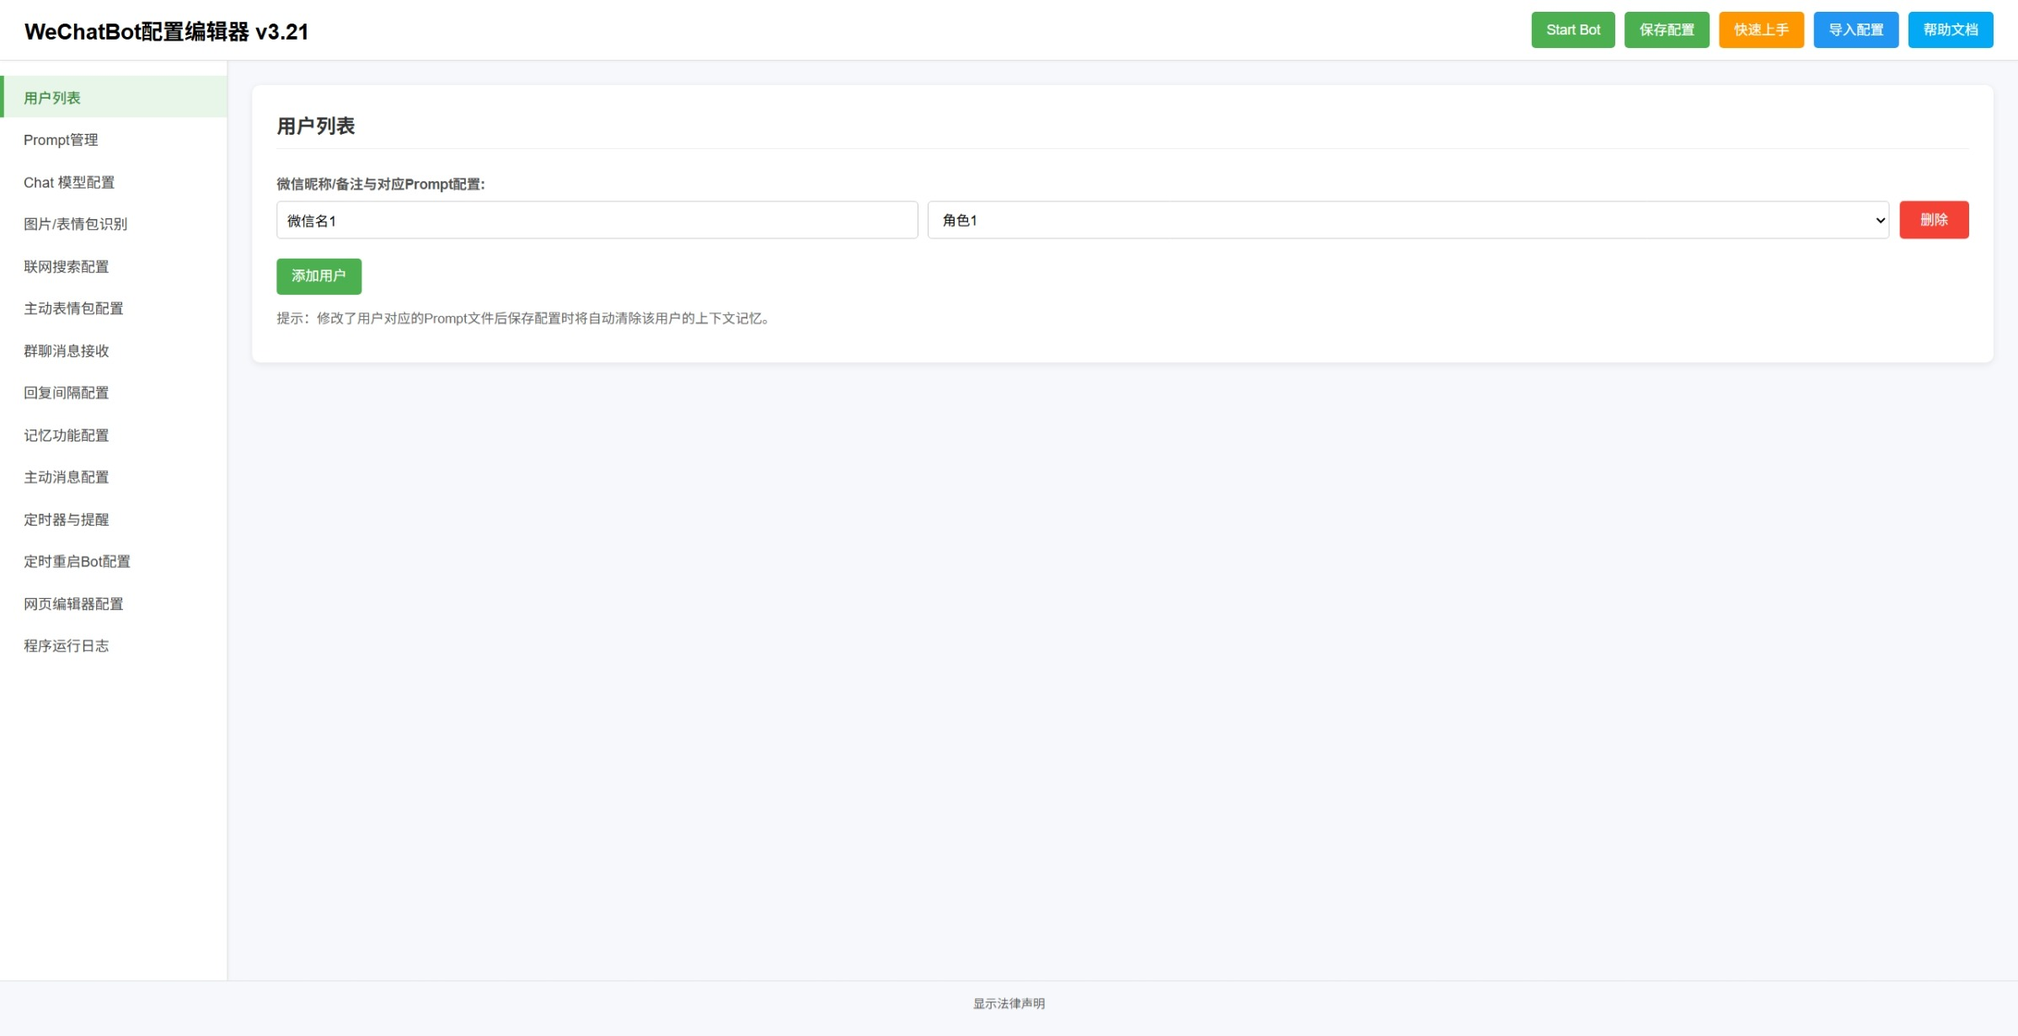
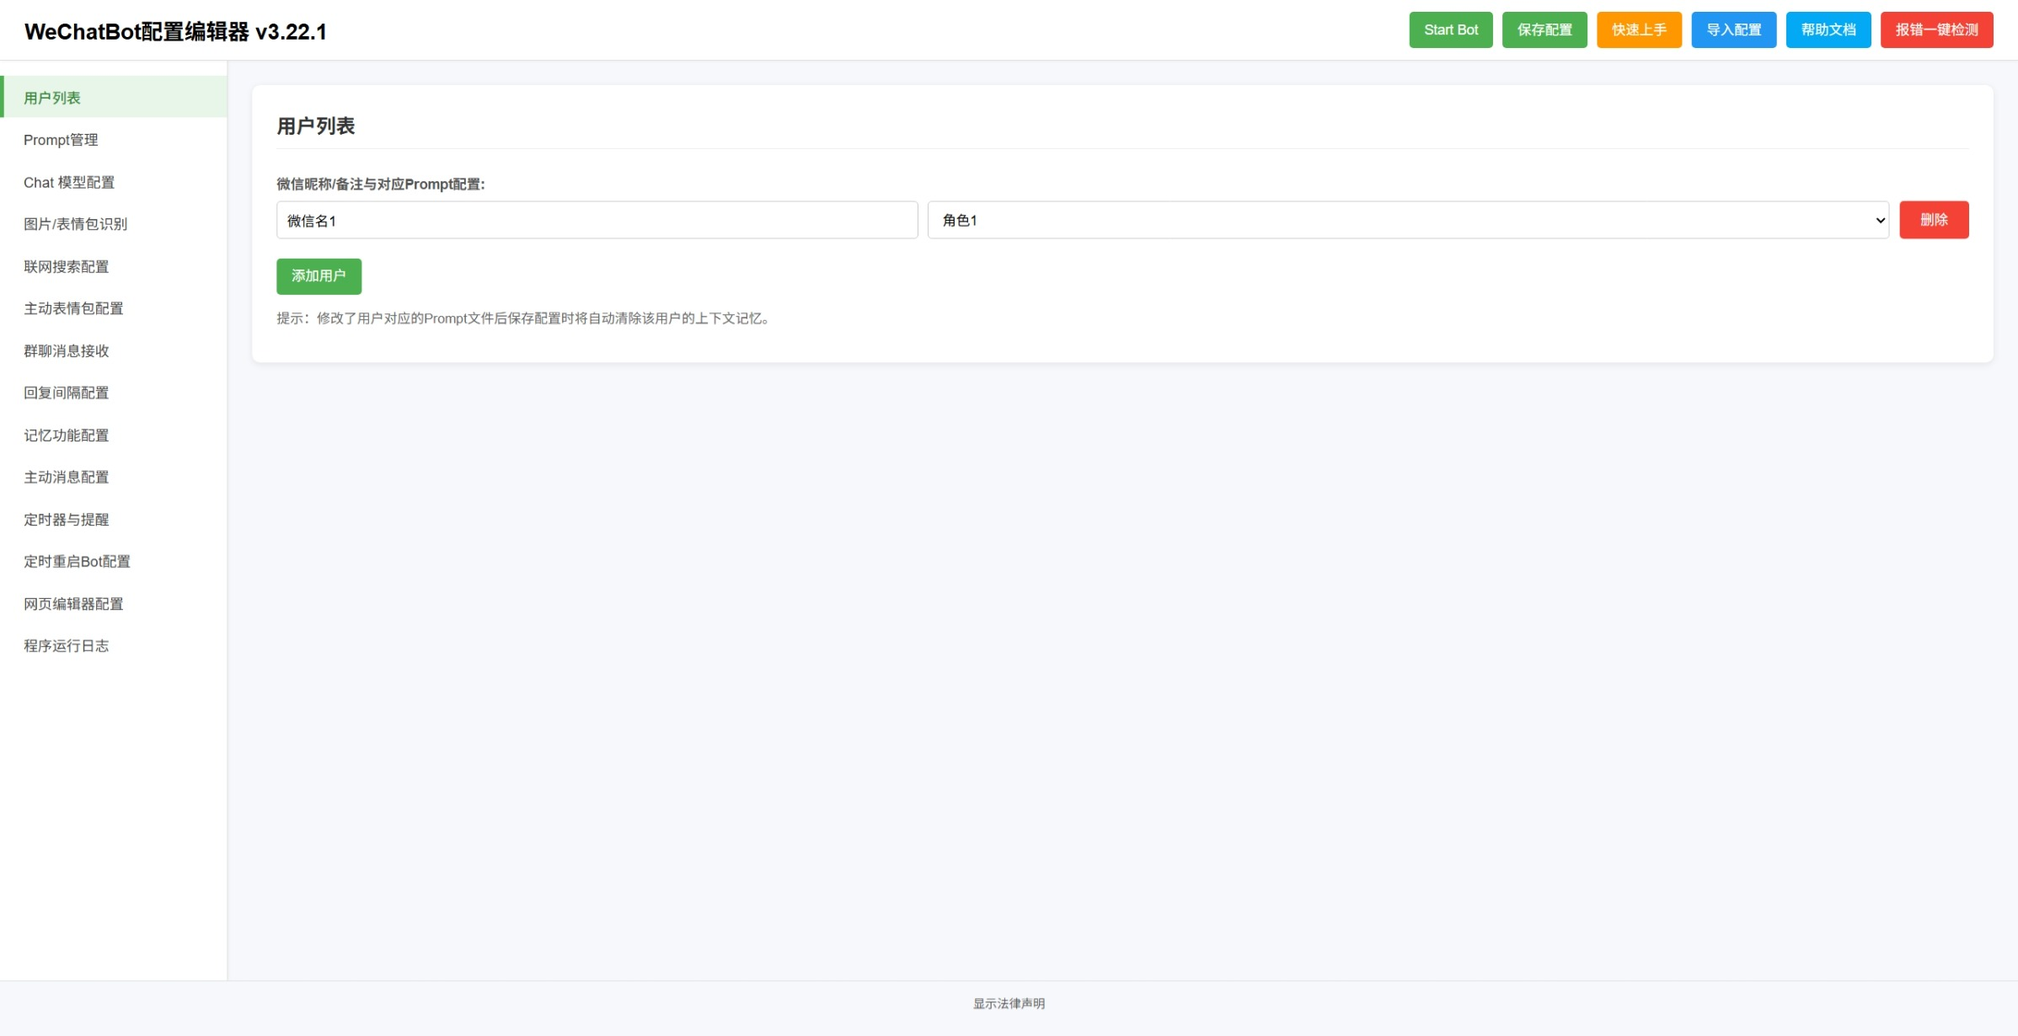
Update 3.22.1

Changed region(s): [[0.6797, 0.0, 0.9887, 0.0618]]

diff --git a/templates/config_editor.html b/templates/config_editor.html
@@ -578,6 +578,11 @@
                  padding: 8px 10px; font-size: 13px;
             }
         }
+        @media (max-width: 480px) {
+            #oneKeyDiagnosticButton {
+                display: none !important;
+            }
+        }
         .file-list {
             list-style: none;
             padding: 0;
@@ -615,6 +620,12 @@
         }
         .delete-btn:hover {
             color: #d32f2f;
+        }
+        
+        .api-key-hint {
+            color: #ff9800 !important;
+            font-weight: bold;
+            margin-top: 5px !important;
         }
         .generator-box {
             display: flex;
@@ -693,6 +704,47 @@
             return 'https://vg.v1api.cc/v1'; // 默认返回第一个节点
         }
         
+        // 设置API Key输入字段的交互逻辑
+        function setupApiKeyInputs() {
+            const apiKeyInputs = document.querySelectorAll('.api-key-input');
+            
+            apiKeyInputs.forEach(input => {
+                const isHidden = input.value && input.value.includes('*');
+                
+                if (isHidden) {
+                    // 为隐藏的API Key添加特殊样式
+                    input.style.backgroundColor = '#fff3e0';
+                    input.style.border = '2px solid #ff9800';
+                    
+                    // 添加焦点事件
+                    input.addEventListener('focus', function() {
+                        if (this.value && this.value.includes('*')) {
+                            this.placeholder = '请输入新的API Key来替换隐藏的密钥';
+                            this.style.backgroundColor = '#e8f5e9';
+                            this.style.border = '2px solid #4caf50';
+                        }
+                    });
+                    
+                    input.addEventListener('blur', function() {
+                        if (this.value && this.value.includes('*')) {
+                            this.style.backgroundColor = '#fff3e0';
+                            this.style.border = '2px solid #ff9800';
+                            this.placeholder = 'sk-xxxxxxxxxx';
+                        }
+                    });
+                    
+                    // 添加输入事件，清除隐藏样式
+                    input.addEventListener('input', function() {
+                        if (this.value && !this.value.includes('*')) {
+                            this.style.backgroundColor = '';
+                            this.style.border = '';
+                            this.placeholder = 'sk-xxxxxxxxxx';
+                        }
+                    });
+                }
+            });
+        }
+        
         // 更新所有WeAPIs相关的URL配置
         async function updateWeAPIsUrls() {
             const availableUrl = await selectAvailableWeAPIsNode();
@@ -717,6 +769,9 @@
         document.addEventListener('DOMContentLoaded', function () {
             // 初始化时检测WeAPIs节点
             updateWeAPIsUrls();
+            
+            // 处理API Key输入字段的交互
+            setupApiKeyInputs();
             
             loadReminders();
             startReminderRefresh();
@@ -2158,7 +2213,7 @@
     <button id="mobileMenuToggle">☰</button> 
 
     <div class="header-bar">
-        <div class="header-title"><h1>WeChatBot配置编辑器 v3.22</h1></div>
+        <div class="header-title"><h1>WeChatBot配置编辑器 v3.22.1</h1></div>
         <div class="buttons">
             <button id="botButton" class="nav-button">Start Bot</button>
             <button type="submit" form="configForm" id="saveConfigButton" class="nav-button" style="background-color: #4CAF50;">保存配置</button>
@@ -2314,7 +2369,8 @@ document.getElementById('oneKeyDiagnosticButton').addEventListener('click', asyn
                     </div>
                     <div class="form-group">
                         <label>API Key:</label>
-                        <input type="text" placeholder="sk-xxxxxxxxxx" name="DEEPSEEK_API_KEY" value="{{ config.DEEPSEEK_API_KEY }}">
+                        <input type="text" placeholder="sk-xxxxxxxxxx" name="DEEPSEEK_API_KEY" value="{{ config.DEEPSEEK_API_KEY }}" class="api-key-input">
+                        <small class="api-key-hint">{{ "出于安全考虑，已隐藏完整API Key。如需修改，请直接输入新的API Key。" if "*" in config.DEEPSEEK_API_KEY else "" }}</small>
                     </div>
                     <div class="form-group">
                         <label>回复最大Token:</label>
@@ -2341,12 +2397,12 @@ document.getElementById('oneKeyDiagnosticButton').addEventListener('click', asyn
                     <h3 style="margin-top: 30px; border-top: 1px solid #eee; padding-top: 20px;">辅助模型配置</h3>
                     <div class="form-group">
                         <div class="switch-item">
-                            <label>启用辅助模型功能</label>
+                            <label>启用辅助模型功能（可选）</label>
                             <div class="switch"><label class="switch-label"><input type="checkbox" id="enableAssistantModel" name="ENABLE_ASSISTANT_MODEL" {% if config.ENABLE_ASSISTANT_MODEL %}checked{% endif %}><span class="slider round"></span></label></div>
                         </div>
                         <small>
                             启用后，表情判断、联网检测、提醒解析等功能将使用辅助模型处理，主模型专注于对话生成。<br>
-                            辅助模型通常使用较小且成本更低的模型（如gpt-4o-mini），可提高效率并降低成本。
+                            辅助模型通常使用较小且成本更低的模型（如gpt-4o-mini），可提高效率并降低主模型使用成本。
                         </small>
                     </div>
 
@@ -2371,7 +2427,8 @@ document.getElementById('oneKeyDiagnosticButton').addEventListener('click', asyn
                         </div>
                         <div class="form-group">
                             <label>辅助模型API Key:</label>
-                            <input type="text" placeholder="sk-xxxxxxxxxx" name="ASSISTANT_API_KEY" value="{{ config.ASSISTANT_API_KEY }}">
+                            <input type="text" placeholder="sk-xxxxxxxxxx" name="ASSISTANT_API_KEY" value="{{ config.ASSISTANT_API_KEY }}" class="api-key-input">
+                            <small class="api-key-hint">{{ "出于安全考虑，已隐藏完整API Key。如需修改，请直接输入新的API Key。" if "*" in config.ASSISTANT_API_KEY else "" }}</small>
                             <small>可与主模型使用相同的API Key，或使用单独的API Key以分别管理成本。</small>
                         </div>
                         <div class="form-group">
@@ -2389,7 +2446,7 @@ document.getElementById('oneKeyDiagnosticButton').addEventListener('click', asyn
                                 <label>使用辅助模型进行记忆总结</label>
                                 <div class="switch"><label class="switch-label"><input type="checkbox" name="USE_ASSISTANT_FOR_MEMORY_SUMMARY" {% if config.USE_ASSISTANT_FOR_MEMORY_SUMMARY %}checked{% endif %}><span class="slider round"></span></label></div>
                             </div>
-                            <small>启用后，记忆总结和重要性评估也将使用辅助模型，进一步降低主模型调用成本。</small>
+                            <small>启用后，记忆总结和重要性评估也将使用辅助模型，进一步降低主模型调用成本，但可能降低总结质量。</small>
                         </div>
                     </div>
                 </div>
@@ -2428,7 +2485,8 @@ document.getElementById('oneKeyDiagnosticButton').addEventListener('click', asyn
                     </div>
                     <div class="form-group">
                         <label>API Key:</label>
-                        <input type="text" placeholder="sk-xxxxxxxxxx" name="MOONSHOT_API_KEY" value="{{ config.MOONSHOT_API_KEY }}">
+                        <input type="text" placeholder="sk-xxxxxxxxxx" name="MOONSHOT_API_KEY" value="{{ config.MOONSHOT_API_KEY }}" class="api-key-input">
+                        <small class="api-key-hint">{{ "出于安全考虑，已隐藏完整API Key。如需修改，请直接输入新的API Key。" if "*" in config.MOONSHOT_API_KEY else "" }}</small>
                     </div>
                     <div class="form-group">
                         <label>温度 (0-1):</label>
@@ -2466,7 +2524,8 @@ document.getElementById('oneKeyDiagnosticButton').addEventListener('click', asyn
                     </div>
                     <div class="form-group">
                         <label>联网API Key:</label>
-                        <input type="text" placeholder="sk-xxxxxxxxxx" name="ONLINE_API_KEY" value="{{ config.ONLINE_API_KEY }}">
+                        <input type="text" placeholder="sk-xxxxxxxxxx" name="ONLINE_API_KEY" value="{{ config.ONLINE_API_KEY }}" class="api-key-input">
+                        <small class="api-key-hint">{{ "出于安全考虑，已隐藏完整API Key。如需修改，请直接输入新的API Key。" if "*" in config.ONLINE_API_KEY else "" }}</small>
                     </div>
                     <div class="form-group">
                         <label>联网API温度 (0-1):</label>

diff --git a/templates/quick_start.html b/templates/quick_start.html
@@ -218,6 +218,12 @@
         .entry button:hover {
             background-color: #d32f2f;
         }
+        
+        .api-key-hint {
+            color: #ff9800 !important;
+            font-weight: bold;
+            margin-top: 5px !important;
+        }
         button.add-user-btn {
              margin-top:10px;
              background-color: #5cb85c;
@@ -323,7 +329,8 @@
 
             <div class="form-group">
                 <label for="quick_start_api_key">API Key:</label>
-                <input type="text" id="quick_start_api_key" name="quick_start_api_key" value="{{ config.DEEPSEEK_API_KEY or '' }}" placeholder="请输入 API Key">
+                <input type="text" id="quick_start_api_key" name="quick_start_api_key" value="{{ config.DEEPSEEK_API_KEY or '' }}" placeholder="请输入 API Key" class="api-key-input">
+                <small class="api-key-hint">{{ "出于安全考虑，已隐藏完整API Key。如需修改，请直接输入新的API Key。" if "*" in (config.DEEPSEEK_API_KEY or '') else "" }}</small>
                 <small id="api_key_note">申请 WeAPIs 密钥后，聊天、图片识别、联网搜索功能将使用此 Key 和推荐配置。</small>
             </div>
 
@@ -421,7 +428,51 @@
     </div>
 
     <script>
+        // 设置API Key输入字段的交互逻辑
+        function setupApiKeyInputs() {
+            const apiKeyInputs = document.querySelectorAll('.api-key-input');
+            
+            apiKeyInputs.forEach(input => {
+                const isHidden = input.value && input.value.includes('*');
+                
+                if (isHidden) {
+                    // 为隐藏的API Key添加特殊样式
+                    input.style.backgroundColor = '#fff3e0';
+                    input.style.border = '2px solid #ff9800';
+                    
+                    // 添加焦点事件
+                    input.addEventListener('focus', function() {
+                        if (this.value && this.value.includes('*')) {
+                            this.placeholder = '请输入新的API Key来替换隐藏的密钥';
+                            this.style.backgroundColor = '#e8f5e9';
+                            this.style.border = '2px solid #4caf50';
+                        }
+                    });
+                    
+                    input.addEventListener('blur', function() {
+                        if (this.value && this.value.includes('*')) {
+                            this.style.backgroundColor = '#fff3e0';
+                            this.style.border = '2px solid #ff9800';
+                            this.placeholder = '请输入 API Key';
+                        }
+                    });
+                    
+                    // 添加输入事件，清除隐藏样式
+                    input.addEventListener('input', function() {
+                        if (this.value && !this.value.includes('*')) {
+                            this.style.backgroundColor = '';
+                            this.style.border = '';
+                            this.placeholder = '请输入 API Key';
+                        }
+                    });
+                }
+            });
+        }
+
         document.addEventListener('DOMContentLoaded', function() {
+            // 初始化API Key输入字段
+            setupApiKeyInputs();
+            
             const apiProviderSelect = document.getElementById('quick_start_api_provider');
             const customBaseUrlGroup = document.getElementById('custom_base_url_group');
             const customBaseUrlInput = document.getElementById('quick_start_custom_base_url');

diff --git a/config_editor.py b/config_editor.py
@@ -40,6 +40,22 @@ import json
 
 app = Flask(__name__)
 
+def hide_api_key(api_key):
+    """
+    隐藏API Key，只显示前4位和后4位，中间用*替代
+    """
+    if not api_key or len(api_key) <= 8:
+        return api_key  # 太短的key不处理
+    
+    # 显示前4位和后4位，中间用*替代
+    return api_key[:4] + '*' * max(4, len(api_key) - 8) + api_key[-4:]
+
+def is_hidden_api_key(api_key):
+    """
+    检查API Key是否是隐藏版本
+    """
+    return api_key and '*' in api_key
+
 def safe_type_convert(value, target_type, default_value=None, field_name=""):
     """
     安全的类型转换函数，防止整数转换为字符串
@@ -304,6 +320,18 @@ def submit_config():
         old_listen_list_map = {item[0]: item[1] for item in current_config_before_update.get('LISTEN_LIST', [])}
 
         new_values_for_config_py = {}
+        
+        # 处理API Key字段的特殊逻辑
+        api_key_fields = ['DEEPSEEK_API_KEY', 'MOONSHOT_API_KEY', 'ONLINE_API_KEY', 'ASSISTANT_API_KEY']
+        for field in api_key_fields:
+            if field in request.form:
+                submitted_value = request.form[field].strip()
+                if is_hidden_api_key(submitted_value):
+                    # 如果提交的是隐藏版本，保持原值不变
+                    new_values_for_config_py[field] = current_config_before_update.get(field, '')
+                else:
+                    # 如果提交的是新值，使用新值
+                    new_values_for_config_py[field] = submitted_value
 
         nicknames_from_form = request.form.getlist('nickname')
         prompt_files_from_form = request.form.getlist('prompt_file')
@@ -338,7 +366,7 @@ def submit_config():
             new_values_for_config_py[field] = field in request.form
 
         for key_from_form in request.form:
-            if key_from_form in ['nickname', 'prompt_file'] or key_from_form in boolean_fields:
+            if key_from_form in ['nickname', 'prompt_file'] or key_from_form in boolean_fields or key_from_form in api_key_fields:
                 continue 
 
             value_from_form = request.form[key_from_form].strip()
@@ -656,7 +684,13 @@ def quick_start():
             new_values = {}
 
             api_provider = request.form.get('quick_start_api_provider', 'weapis')
-            api_key = request.form.get('quick_start_api_key', '').strip()
+            api_key_raw = request.form.get('quick_start_api_key', '').strip()
+            
+            # 处理API Key，如果是隐藏版本则保持原值
+            if is_hidden_api_key(api_key_raw):
+                api_key = config.get('DEEPSEEK_API_KEY', '')
+            else:
+                api_key = api_key_raw
 
             keys_to_clear_for_non_weapis = [
                 'MOONSHOT_API_KEY', 'ONLINE_API_KEY',
@@ -740,8 +774,15 @@ def quick_start():
             current_api_provider = 'other'
             current_custom_base_url = deepseek_url
 
+        # 为快速配置页面也隐藏API Key
+        display_config = config.copy()
+        api_key_fields = ['DEEPSEEK_API_KEY']
+        for field in api_key_fields:
+            if field in display_config:
+                display_config[field] = hide_api_key(display_config[field])
+
         return render_template('quick_start.html',
-                               config=config,
+                               config=display_config,
                                prompt_files=prompt_files_list,
                                current_api_provider=current_api_provider,
                                current_custom_base_url=current_custom_base_url)
@@ -882,8 +923,15 @@ def index():
         config = parse_config() # 重新解析以获取最新配置
         chat_context_users = get_chat_context_users()
 
+        # 创建一个隐藏API Key的配置副本用于显示
+        display_config = config.copy()
+        api_key_fields = ['DEEPSEEK_API_KEY', 'MOONSHOT_API_KEY', 'ONLINE_API_KEY', 'ASSISTANT_API_KEY']
+        for field in api_key_fields:
+            if field in display_config:
+                display_config[field] = hide_api_key(display_config[field])
+
         return render_template('config_editor.html',
-                             config=config,
+                             config=display_config,
                              prompt_files=prompt_files,
                              chat_context_users=chat_context_users)
     except Exception as e:

diff --git a/bot.py b/bot.py
@@ -1599,17 +1599,47 @@ def send_reply(user_id, sender_name, username, original_merged_message, reply):
         # --- 发送混合消息队列 ---
         for idx, (action_type, content) in enumerate(message_actions):
             if action_type == 'emoji':
-                try:
-                    wx.SendFiles(filepath=content, who=user_id)
-                    logger.info(f"已向 {user_id} 发送表情包")
+                # 表情包发送三次重试
+                success = False
+                for attempt in range(3):
+                    try:
+                        if wx.SendFiles(filepath=content, who=user_id):
+                            logger.info(f"已向 {user_id} 发送表情包")
+                            success = True
+                            break
+                        else:
+                            logger.warning(f"发送表情包失败，尝试第 {attempt + 1} 次")
+                    except Exception as e:
+                        logger.warning(f"发送表情包异常，尝试第 {attempt + 1} 次: {str(e)}")
+                    
+                    if attempt < 2:  # 不是最后一次尝试
+                        time.sleep(0.5)  # 短暂等待后重试
+                
+                if not success:
+                    logger.error(f"表情包发送失败，已重试3次")
+                else:
                     time.sleep(random.uniform(0.5, 1.5))  # 表情包发送后随机延迟
-                except Exception as e:
-                    logger.error(f"发送表情包失败: {str(e)}")
             else:
-                wx.SendMsg(msg=content, who=user_id)
-                logger.info(f"分段回复 {idx+1}/{len(message_actions)} 给 {sender_name}: {content[:50]}...")
-                if ENABLE_MEMORY:
-                    log_ai_reply_to_memory(username, content)
+                # 文本消息发送三次重试
+                success = False
+                for attempt in range(3):
+                    try:
+                        if wx.SendMsg(msg=content, who=user_id):
+                            logger.info(f"分段回复 {idx+1}/{len(message_actions)} 给 {sender_name}: {content[:50]}...")
+                            if ENABLE_MEMORY:
+                                log_ai_reply_to_memory(username, content)
+                            success = True
+                            break
+                        else:
+                            logger.warning(f"发送文本消息失败，尝试第 {attempt + 1} 次")
+                    except Exception as e:
+                        logger.warning(f"发送文本消息异常，尝试第 {attempt + 1} 次: {str(e)}")
+                    
+                    if attempt < 2:  # 不是最后一次尝试
+                        time.sleep(0.5)  # 短暂等待后重试
+                
+                if not success:
+                    logger.error(f"文本消息发送失败，已重试3次: {content[:50]}...")
 
             # 处理分段延迟（仅当下一动作为文本时计算）
             if idx < len(message_actions) - 1:

diff --git a/readme.md b/readme.md
@@ -17,7 +17,7 @@
 <img src="Demo_Image/5.png" alt="示例图片4" width="900px">
 
 # 版本号
-- v3.22
+- v3.22.1
 
 # 目前支持的功能
 1. 智能自动回复，支持多用户/群聊同时聊天，并可为每个用户或群聊分配独立的提示词（Prompt）
